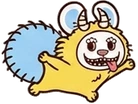
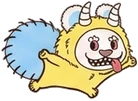
fix: ???? ??? ?? ??? v2 ?? ? ?? ?? (#163)

diff --git a/src/main.ts b/src/main.ts
@@ -348,7 +348,7 @@ class RunnerScene extends Phaser.Scene {
     this.load.spritesheet(DEKATSUYO_RUN, '/assets/momonga-dekatsuyo-run.webp', { frameWidth: 256, frameHeight: 224 });
     this.load.image(DEKATSUYO_BASE, '/assets/momonga-dekatsuyo-base.webp');
     this.load.image(DEKATSUYO_GLIDE, '/assets/momonga-dekatsuyo-glide.webp');
-    this.load.spritesheet(DEKATSUYO_CROUCH, '/assets/momonga-dekatsuyo-crouch.webp', { frameWidth: 224, frameHeight: 132 });
+    this.load.spritesheet(DEKATSUYO_CROUCH, '/assets/momonga-dekatsuyo-crouch.webp', { frameWidth: 192, frameHeight: 72 });
     this.load.spritesheet(ANOKO_RUN, '/assets/momonga-anoko-run.webp', { frameWidth: 256, frameHeight: 224 });
     this.load.image(ANOKO_BASE, '/assets/momonga-anoko-base.webp');
     this.load.image(ANOKO_GLIDE, '/assets/momonga-anoko-glide.webp');
@@ -587,11 +587,6 @@ class RunnerScene extends Phaser.Scene {
     } else if (dekatsuyoActive) {
       charTexture = gliding ? DEKATSUYO_GLIDE : duck ? DEKATSUYO_CROUCH : model.grounded ? DEKATSUYO_RUN : DEKATSUYO_BASE;
       charFrame = gliding || !duck && !model.grounded ? '__BASE' : duck ? moving ? crawlFrame : 0 : runFrame;
-      if (duck) {
-        heroWidth = 120;
-        heroHeight = 70; // 224x132 aspect ratio proportional
-        heroYOffset = 4 - (70 - 43) / 2; // Keep bottom contact aligned to ground
-      }
     } else if (usagiActive) {
       charTexture = gliding ? USAGI_GLIDE : duck ? USAGI_CROUCH : model.grounded ? USAGI_RUN : USAGI_BASE;
       charFrame = gliding || !duck && !model.grounded ? '__BASE' : duck ? moving ? crawlFrame : 0 : runFrame;
@@ -1347,8 +1342,8 @@ const SKIN_CONFIGS: Record<string, SkinAssetConfig> = {
     crouchSrc: '/assets/momonga-dekatsuyo-crouch.webp',
     glideSrc: '/assets/momonga-dekatsuyo-glide.webp',
     idleSrc: '/assets/momonga-dekatsuyo-idle.webp',
-    crouchFrameW: 224, crouchFrameH: 132,
-    glideAspectW: 138, glideAspectH: 104
+    crouchFrameW: 192, crouchFrameH: 72,
+    glideAspectW: 138, glideAspectH: 101
   },
   'momonga-kigurumi-anoko': {
     name: '아노코 인형옷 스킨',
